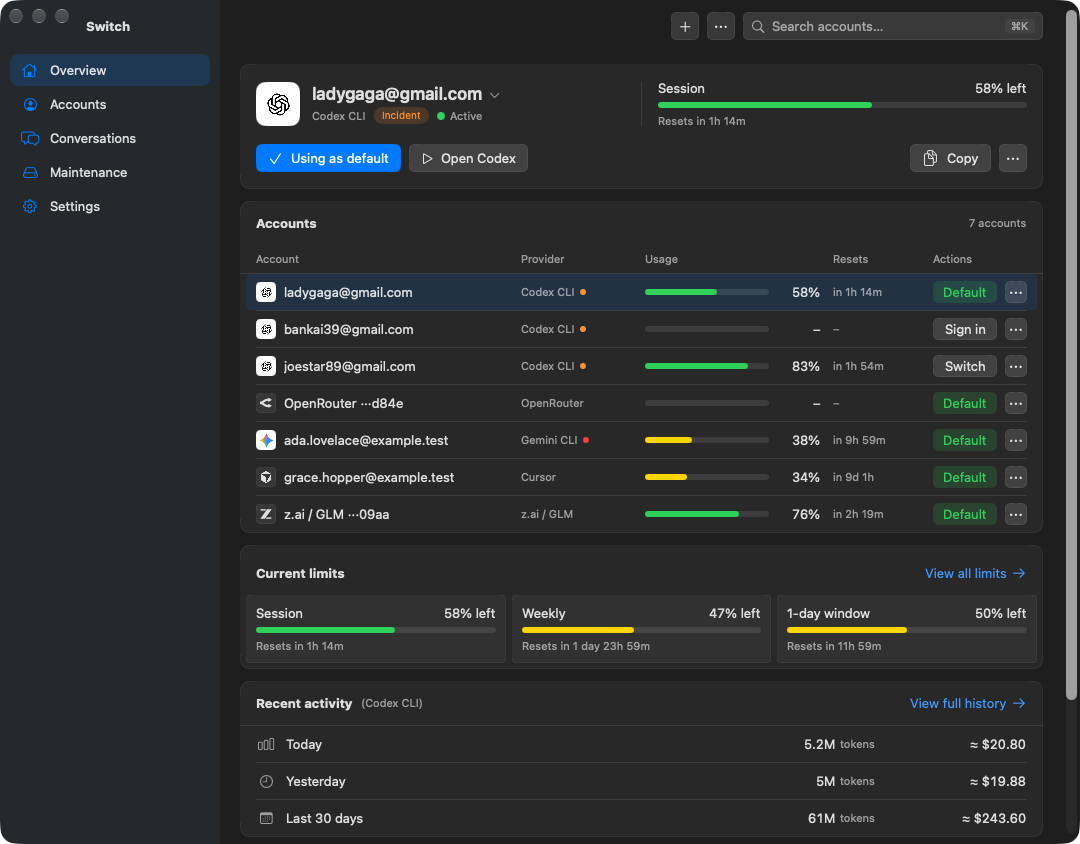
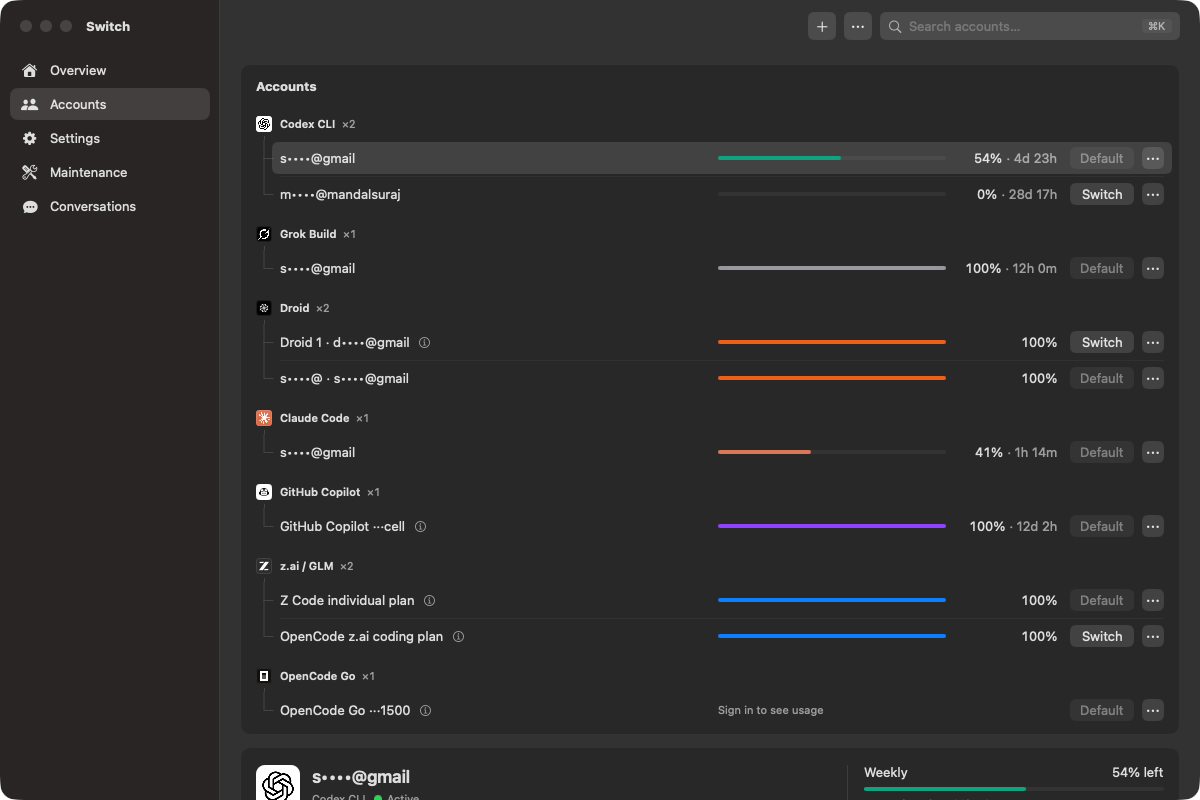
Give the README a cover and real screenshots
The README opened with one synthetic Accounts image and read as a
reference page. It now starts with a cover, badges, and a short why,
then shows the Overview, menu bar, and Accounts pages. Screenshots
come from the installed app with Hide email addresses on; the menu
bar uses the Preview data. Provider notes fold into a details block.

diff --git a/README.md b/README.md
@@ -1,62 +1,77 @@
-# Switch
+<p align="center">
+  <img src="docs/screenshots/cover.png" alt="Switch: the Overview page and the menu bar popover on macOS" width="100%">
+</p>
 
-**Switch AI accounts without signing in over and over.**
+<p align="center">
+  <b>Switch AI accounts without signing in over and over.</b><br>
+  A native macOS menu bar app that keeps every login for your AI coding tools ready,
+  shows how much of each limit is left, and opens the right tool with one click.
+</p>
 
-Switch is a native macOS account manager for supported AI coding tools. Keep
-multiple logins ready, select an account from the menu bar, and open the right
-tool without repeating its sign-in flow.
+<p align="center">
+  <a href="https://github.com/surajmandalcell/switch/releases/latest"><img alt="Latest release" src="https://img.shields.io/github/v/release/surajmandalcell/switch?label=release&color=e8543a"></a>
+  <img alt="macOS 14 or later" src="https://img.shields.io/badge/macOS-14%2B-111111?logo=apple">
+  <img alt="Apple Silicon" src="https://img.shields.io/badge/Apple%20Silicon-arm64-111111">
+  <a href="https://www.npmjs.com/package/@smdl/switch"><img alt="npm" src="https://img.shields.io/npm/v/@smdl/switch?label=npm&color=0a84ff"></a>
+  <a href="LICENSE"><img alt="MIT license" src="https://img.shields.io/badge/license-MIT-3fb950"></a>
+</p>
 
-![Switch Preview showing saved accounts and usage limits in dark mode](docs/screenshots/accounts-dark.png)
+<p align="center">
+  <a href="https://github.com/surajmandalcell/switch/releases/latest"><b>Download for Mac</b></a> ·
+  <a href="#use-switch-in-the-terminal">Terminal</a> ·
+  <a href="#supported-tools">Supported tools</a> ·
+  <a href="docs/development.md#build-and-check">Build from source</a>
+</p>
 
-*Synthetic Preview data. The account names and usage values are examples.*
+## Why Switch
+
+- **One click to change accounts.** Pick an account in the menu bar. Switch replaces only that
+  tool's login, so settings, extensions, and history stay where they are.
+- **See every limit before you hit it.** Session and weekly windows, reset countdowns, and a pace
+  color for each account, across about 95 tools and API providers.
+- **Know where your tokens go.** The Overview page charts tokens per day, a year of activity,
+  trends per account, and an estimated API cost.
+- **Safe by design.** Sign-in runs in a private temporary home. The old login is saved and the
+  replaced bytes are backed up before every switch. Switch never reads the macOS Keychain or
+  browser cookie stores.
+
+## Overview
+
+Every account, model, and project in one page: tokens per day, a 12-month activity map, trends,
+and each account's share of tokens.
+
+![Switch Overview page in dark mode with tokens per day and a year of activity](docs/screenshots/overview-dark.png)
+
+| Trends and share of tokens | Light appearance |
+| :---: | :---: |
+| ![Overview trends, share of tokens, and recent backups](docs/screenshots/overview-insights.png) | ![Switch Overview page in light mode](docs/screenshots/overview-light.png) |
+
+## Menu bar
+
+The status item shows up to four account percentages. The popover lists every saved account,
+the default for each tool, its limits, and when each window resets. Optional notifications
+warn when a window is almost out, and a dot marks a provider incident.
+
+| Light | Dark |
+| :---: | :---: |
+| ![Switch menu bar popover in light mode](docs/screenshots/menubar-light.png) | ![Switch menu bar popover in dark mode](docs/screenshots/menubar-dark.png) |
+
+## Accounts
+
+All saved accounts, grouped by tool, with live usage and one button to make any of them the default.
+
+![Switch Accounts page with accounts grouped by tool](docs/screenshots/accounts-dark.png)
+
+<sub>Screenshots show real usage with <b>Hide email addresses</b> turned on. Menu bar screenshots use the synthetic Preview data.</sub>
 
 ## Get Switch for Mac
 
-[Download Switch for Mac](https://github.com/surajmandalcell/switch/releases/download/v3.7.0/Switch-v3.7.0-mac-arm64.zip),
-unzip it, and move `Switch.app` to Applications. Switch requires macOS 14 or
-later on Apple Silicon. Install the command-line tool for each provider you use.
+1. [Download the latest release](https://github.com/surajmandalcell/switch/releases/latest)
+   and unzip it.
+2. Move `Switch.app` to Applications and open it.
+3. Install the command-line tool for each provider you use.
 
-| Provider | Account switching | Usage limits |
-| --- | --- | --- |
-| Codex CLI | Swaps `~/.codex/auth.json` | Supported |
-| [Grok Build](https://github.com/xai-org/grok-build#installing-the-released-binary) | Swaps `~/.grok/auth.json` | Supported |
-| Claude Code | Profiles that share one history | Supported |
-| Gemini CLI, Antigravity CLI, Cursor, GitHub Copilot, Kiro, Kimi Code, Kilo, Codebuff, Devin, OpenCode Go, Ollama, Vertex AI | Swaps only the tool's login | Supported |
-| About 80 API and plan providers, such as OpenRouter, z.ai, DeepSeek, MiniMax, Mistral, Groq, OpenAI, AWS Bedrock, Warp, and Factory | Switches the saved key or session | Supported |
-
-Switch includes every usage provider from [OpenUsage](https://github.com/robinebers/openusage)
-and [CodexBar](https://github.com/steipete/CodexBar) that works without reading the
-macOS Keychain or browser cookie stores. Providers that need a browser session take a
-pasted Cookie header instead.
-
-You can also [build Switch from source](docs/development.md#build-and-check).
-
-## Use Switch in the terminal
-
-Open the terminal interface without a global install:
-
-```bash
-npx --yes @smdl/switch
-```
-
-Or install it globally:
-
-```bash
-npm install --global @smdl/switch
-switch
-```
-
-The npm build currently supports Apple Silicon Macs. From a source checkout,
-the direct path is:
-
-```bash
-make tui
-```
-
-The terminal interface uses the same account store and switching engine as the
-Mac app. Use the arrow keys to move, Enter to select, and Escape to go back.
-The existing `ai-manager` command remains available as an alias. Run
-`switch help` for non-interactive commands and JSON output.
+Switch requires macOS 14 or later on Apple Silicon.
 
 ## Start switching
 
@@ -71,18 +86,22 @@ Choose **Add Account**, then search for the provider.
 Sign-in runs in a private temporary home. It does not replace your current
 login while you add another account.
 
-## See account status before you switch
+## Supported tools
 
-The menu bar lists every saved account and the current default for each provider.
-Switch also shows each account's limits, reset countdowns, and a pace color that warns
-before a window runs out. Codex refreshes every three minutes and other providers every
-five. The status item can show up to four account percentages, and the popover lists
-every account without inventing unavailable data. Optional notifications warn when a
-window is almost out, and a dot marks a provider incident.
+| Provider | Account switching | Usage limits |
+| --- | --- | --- |
+| Codex CLI | Swaps `~/.codex/auth.json` | Supported |
+| [Grok Build](https://github.com/xai-org/grok-build#installing-the-released-binary) | Swaps `~/.grok/auth.json` | Supported |
+| Claude Code | Profiles that share one history | Supported |
+| Droid (Factory) | Swaps the Droid login | Supported |
+| Gemini CLI, Antigravity CLI, Cursor, GitHub Copilot, Kiro, Kimi Code, Kilo, Codebuff, Devin, OpenCode Go, Ollama, Vertex AI | Swaps only the tool's login | Supported |
+| About 80 API and plan providers, such as OpenRouter, z.ai, DeepSeek, MiniMax, Mistral, Groq, OpenAI, AWS Bedrock, Warp, and Factory | Switches the saved key or session | Supported |
 
-| Light | Dark |
-| :---: | :---: |
-| ![Switch menu popover with three sample accounts in light mode](docs/screenshots/menubar-light.png) | ![Switch menu popover with three sample accounts in dark mode](docs/screenshots/menubar-dark.png) |
+Switch includes every usage provider from [OpenUsage](https://github.com/robinebers/openusage)
+and [CodexBar](https://github.com/steipete/CodexBar) that works without reading the
+macOS Keychain or browser cookie stores. Providers that need a browser session take a
+pasted Cookie header instead. Codex refreshes every three minutes and other providers
+every five.
 
 ## Only the provider login changes
 
@@ -103,7 +122,8 @@ flowchart LR
     S --> AUTH --> NEW["New provider sessions"]
 ```
 
-Provider notes:
+<details>
+<summary><b>Provider notes</b></summary>
 
 - **Codex CLI:** Switch replaces only `~/.codex/auth.json`. Existing sessions keep the
   credential they already loaded. Usage limits, history, activity, imports, and Cleanup
@@ -120,6 +140,36 @@ Provider notes:
 - **API providers:** Each account is a saved key or pasted session. Switching changes the
   default that the menu bar shows.
 
+</details>
+
+## Use Switch in the terminal
+
+Open the terminal interface without a global install:
+
+```bash
+npx --yes @smdl/switch
+```
+
+Or install it globally:
+
+```bash
+npm install --global @smdl/switch
+switch
+```
+
+The terminal interface uses the same account store and switching engine as the
+Mac app. Use the arrow keys to move, Enter to select, and Escape to go back.
+The npm build supports Apple Silicon Macs. From a source checkout, run `make tui`.
+The `ai-manager` command remains available as an alias.
+
+Script it:
+
+```bash
+switch usage --json                                  # every account's limits
+switch guard --provider codex --min-remaining 10     # exits non-zero when a window runs low
+switch help                                          # all non-interactive commands
+```
+
 ## More when you need it
 
 - **Check a saved account.** Validate its credential without making it the default, and
@@ -128,14 +178,20 @@ Provider notes:
   Extra settings and history remain optional where supported.
 - **Explore supported history.** Search conversations, track daily token activity, and
   retain summaries when the provider supplies compatible data.
-- **Clean up safely.** Preview supported conversations and caches, move them to
-  recoverable trash, and restore them when needed.
+- **Clean up and back up safely.** Preview supported conversations and caches, move them to
+  recoverable trash, and restore them when needed. Back up chats and settings to a drive
+  or folder you choose.
+- **Keep your screen private.** Hide email addresses, or turn on Privacy mode to show every
+  account under a stable made-up name.
 
-- **Script it.** `switch usage --json` prints every account's limits, and
-  `switch guard --provider codex --min-remaining 10` exits non-zero when a window runs low.
+## Development
 
-For sample accounts without real credentials, use the
-[isolated Preview build](docs/development.md#preview-with-sample-accounts).
-[Development and release notes](docs/development.md) cover packaging and
-safety. The [product specification](specs/product.md) defines current
-behavior. Local ignored goal ledgers record current work and old verification.
+- [Build and check](docs/development.md#build-and-check) from source.
+- Try the [isolated Preview build](docs/development.md#preview-with-sample-accounts) with
+  sample accounts and no real credentials.
+- The [product specification](specs/product.md) defines current behavior.
+- [Security policy](SECURITY.md) · [Release notes](docs/release-notes.md)
+
+## License
+
+[MIT](LICENSE)
